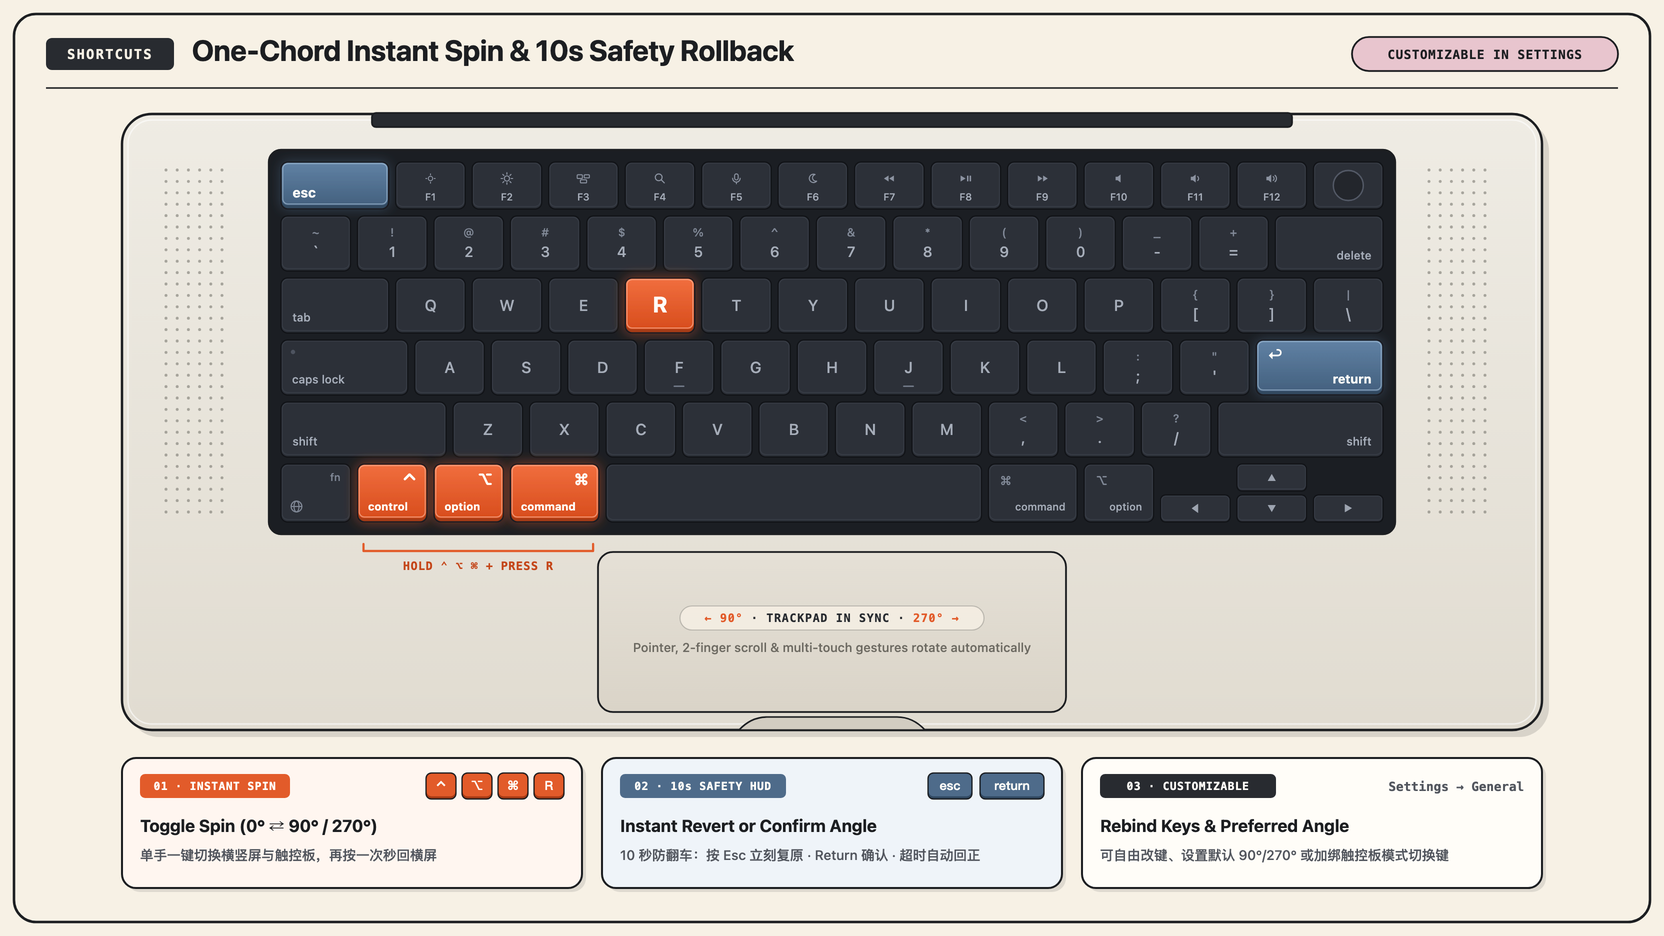
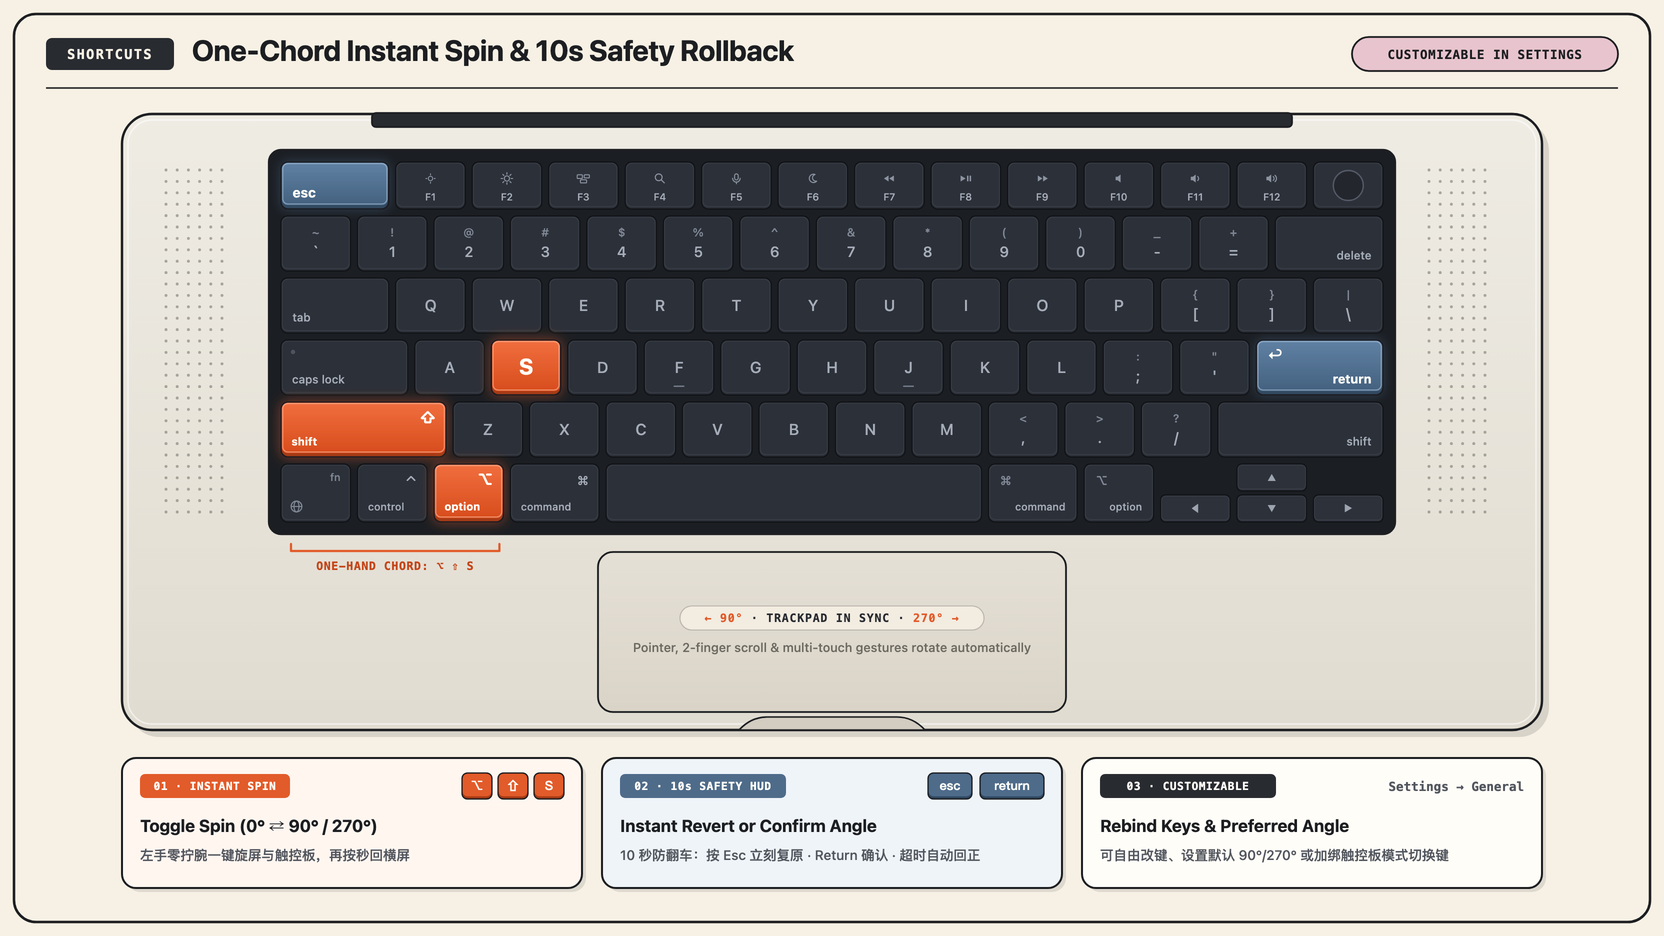
feat(shortcuts): switch default toggle hotkey to one-hand Option+Shift+S (v0.2.4)

diff --git a/Sources/SpinMacApp/Shortcuts.swift b/Sources/SpinMacApp/Shortcuts.swift
@@ -1,10 +1,10 @@
 import KeyboardShortcuts
 
 extension KeyboardShortcuts.Name {
-    /// Global shortcut to toggle between 0° and preferred portrait angle (default: ⌃⌥⌘R).
+    /// Global shortcut to toggle between 0° and preferred portrait angle (default: ⌥⇧S).
     static let toggleDisplayRotation = Self(
         "toggleDisplayRotation",
-        default: .init(.r, modifiers: [.control, .option, .command])
+        default: .init(.s, modifiers: [.option, .shift])
     )
 
     /// Optional global shortcut to cycle trackpad mode (Linked -> Independent -> Off).

diff --git a/Sources/SpinMacApp/SpinCoordinator.swift b/Sources/SpinMacApp/SpinCoordinator.swift
@@ -14,7 +14,7 @@ public final class SpinCoordinator {
     public private(set) var currentAngle: SpinAngle = .deg0
     public private(set) var permissions: PermissionStatus = PermissionsManager.currentStatus()
     public private(set) var statusError: SpinMacError?
-    public private(set) var displayShortcutLabel: String = "⌃⌥⌘R"
+    public private(set) var displayShortcutLabel: String = "⌥⇧S"
 
     // MARK: - Persisted Preferences
     public var preferredVerticalAngle: SpinAngle {

diff --git a/README.md b/README.md
@@ -32,7 +32,7 @@ Everyone is vibe coding nonstop right now, and I got completely hooked too. Most
 
 At first, I kept the MacBook flat on the mattress and propped my head up on one hand — within ten minutes my arm went numb and my neck ached. Next, I tried putting my head flat on the pillow and standing the MacBook up on its side edge so the screen lined up with my eyes. The flaw showed up immediately on a soft mattress: the laptop wobbles and wants to tip over constantly, and typing or using a vertical trackpad in mid-air is miserable.
 
-So I built **SpinMac**. Keep your head relaxed on the pillow and **leave the laptop completely flat and rock-solid on the bed**, then spin only the display and trackpad in software. macOS hides Display Rotation whenever no external monitor is plugged in, and rotating only the screen leaves the trackpad fighting every swipe. With SpinMac, one shortcut (`⌃⌥⌘R`) rotates the built-in display, the trackpad, and every multi-touch gesture together — `90°` (`Top ←`, left edge up) when lying on your left side, or `270°` (`Top →`, right edge up) when lying on your right side. You can also decouple display and trackpad angles completely.
+So I built **SpinMac**. Keep your head relaxed on the pillow and **leave the laptop completely flat and rock-solid on the bed**, then spin only the display and trackpad in software. macOS hides Display Rotation whenever no external monitor is plugged in, and rotating only the screen leaves the trackpad fighting every swipe. With SpinMac, one shortcut (`⌥⇧S`) rotates the built-in display, the trackpad, and every multi-touch gesture together — `90°` (`Top ←`, left edge up) when lying on your left side, or `270°` (`Top →`, right edge up) when lying on your right side. You can also decouple display and trackpad angles completely.
 
 <div align="center">
   <img src="docs/assets/before-and-break.png" alt="Before SpinMac: propping head up with a numb arm and stiff neck, then trying to balance a sideways laptop on a soft mattress, vs. taking an eye-health break at a desk" width="100%"/>
@@ -88,17 +88,17 @@ NOTARY_PROFILE="your-notary-profile" \
 </div>
 
 ### 1. Roll Left, Roll Right, or Decouple Completely
-- **Linked Mode (Default)** — Press `⌃⌥⌘R` (or pick `90° / 180° / 270°` in the popover) to spin your built-in display and trackpad together. Rotating an external vertical monitor leaves your laptop's built-in trackpad safely at `0°`.
+- **Linked Mode (Default)** — Press `⌥⇧S` (or pick `90° / 180° / 270°` in the popover) to spin your built-in display and trackpad together. Rotating an external vertical monitor leaves your laptop's built-in trackpad safely at `0°`.
 - **Independent Mode** — Set any angle pair independently. Keep your screen horizontal at `0°` while turning a sideways external Magic Trackpad to `270°`, or mix any `0° / 90° / 180° / 270°` combination.
 - **Off Mode** — Rotate only the screen while completely suspending trackpad interception.
 
 ### 2. One-Chord Shortcut & 10s Safety Rollback
 
 <div align="center">
-  <img src="docs/assets/shortcuts-keyboard.png" alt="SpinMac MacBook keyboard shortcut diagram highlighting Control+Option+Command+R to toggle spin and Esc/Return for the 10-second safety rollback HUD" width="100%"/>
+  <img src="docs/assets/shortcuts-keyboard.png" alt="SpinMac MacBook keyboard shortcut diagram highlighting Option+Shift+S to toggle spin and Esc/Return for the 10-second safety rollback HUD" width="100%"/>
 </div>
 
-- **`⌃ ⌥ ⌘ R`** — Hold the three bottom-left modifier keys (`control` + `option` + `command`) and tap `R` to toggle between `0°` and your preferred portrait angle (`90°` or `270°`). Rebindable anytime in **Settings → General**, where you can also set an optional shortcut to cycle Trackpad Mode.
+- **`⌥ ⇧ S`** — Rest your left pinky on `shift`, thumb on `option`, and tap `S` to toggle between `0°` and your preferred portrait angle (`90°` or `270°`) effortlessly with one hand (zero browser or IDE conflicts). Rebindable anytime in **Settings → General**, where you can also set an optional shortcut to cycle Trackpad Mode.
 - **`esc` / `return`** — Whenever you spin away from `0°`, a floating 10-second confirmation HUD appears centered on screen. Tap `esc` to snap straight back to `0°`, tap `return` to confirm immediately, or do nothing and it auto-reverts after 10 seconds.
 
 ### 3. Full Multi-Touch Gesture Parity

diff --git a/README.zh-CN.md b/README.zh-CN.md
@@ -32,7 +32,7 @@
 
 最开始在床上看电脑，我把笔记本平放在床垫上、侧躺用手撑着脑袋看，没撑十分钟胳膊就压麻了，脖子也酸得不行。后来干脆把头放平、试着把笔记本沿着侧面立在床上，屏幕里的文字方向确实跟眼睛对上了，但真立在软绵绵的床垫上根本放不稳，稍微一动就歪斜着要栽倒，一只手得扶着机身防倒，另一只手还得别扭地去够竖起来的键盘和触控板，根本没法顺手操作。
 
-索性自己写了 **SpinMac**。脑袋照样舒舒服服平枕在枕头上，**电脑也照样老老实实平放在床上**（稳当、好打字、好摸触控板），只用软件把屏幕画面和触控板方向一起转过来就行。macOS 在没接外屏时会隐藏屏幕旋转，光转屏幕不转触控板又会让光标和手势全在跟你拧着干。现在只要按一下快捷键 `⌃⌥⌘R`，内建屏、触控板连带所有多指手势同步跟着视线走：向左侧躺选 `90°`（顶朝左），向右侧躺选 `270°`（顶朝右），屏和板也可以拆开单独设角度。
+索性自己写了 **SpinMac**。脑袋照样舒舒服服平枕在枕头上，**电脑也照样老老实实平放在床上**（稳当、好打字、好摸触控板），只用软件把屏幕画面和触控板方向一起转过来就行。macOS 在没接外屏时会隐藏屏幕旋转，光转屏幕不转触控板又会让光标和手势全在跟你拧着干。现在只要单手按一下快捷键 `⌥⇧S`，内建屏、触控板连带所有多指手势同步跟着视线走：向左侧躺选 `90°`（顶朝左），向右侧躺选 `270°`（顶朝右），屏和板也可以拆开单独设角度。
 
 <div align="center">
   <img src="docs/assets/before-and-break.png" alt="使用前的两步踩坑演变：平放电脑手撑脑袋撑到手麻脖子酸、改把电脑侧立在软床垫上摇晃难操作，以及记得白天坐直护眼休息的三格漫画" width="100%"/>
@@ -88,17 +88,17 @@ NOTARY_PROFILE="your-notary-profile" \
 </div>
 
 ### 1. 左翻身、右翻身，或者屏与板彻底解耦
-- **联动模式（默认）**：按 `⌃⌥⌘R` 或点选 `90° / 180° / 270°`，笔记本内建屏与触控板同步旋转。如果连接并旋转外接显示器，笔记本自带触控板会自动保持 `0°` 不误伤。
+- **联动模式（默认）**：按 `⌥⇧S` 或点选 `90° / 180° / 270°`，笔记本内建屏与触控板同步旋转。如果连接并旋转外接显示器，笔记本自带触控板会自动保持 `0°` 不误伤。
 - **独立模式**：把屏幕和触控板的方向完全拆开。比如屏幕保持 `0°` 横屏不动，桌面上侧放的外接妙控板单独旋成 `270°`，四个角度任意自由组合。
 - **关闭模式**：只转屏幕，触控板事件拦截彻底休眠。
 
 ### 2. 单手一键快捷键与 10 秒防翻车
 
 <div align="center">
-  <img src="docs/assets/shortcuts-keyboard.png" alt="SpinMac MacBook 键盘快捷键位置图：高亮标注 Control+Option+Command+R 一键旋转与 Esc/Return 10秒防翻车确认键" width="100%"/>
+  <img src="docs/assets/shortcuts-keyboard.png" alt="SpinMac MacBook 键盘快捷键位置图：高亮标注 Option+Shift+S 单手一键旋转与 Esc/Return 10秒防翻车确认键" width="100%"/>
 </div>
 
-- **`⌃ ⌥ ⌘ R`**：左手按住左下角三枚修饰键（`control` + `option` + `command`）再点 `R`，即可在 `0°` 与常用竖屏角（`90°` 或 `270°`）之间一键切换。可在 **偏好设置 → 通用** 随时改键，也能额外绑定“切换触控板模式”的快捷键。
+- **`⌥ ⇧ S`**：左手小指轻压 `shift`、大拇指压 `option`、中指或食指轻点 `S`，单手零拧腕一键切换 `0°` 与常用竖屏角（`90°` 或 `270°`），与浏览器和 IDE 零冲突。可在 **偏好设置 → 通用** 随时改键，也能额外绑定“切换触控板模式”的快捷键。
 - **`esc` / `return`**：每次切离 `0°` 时，目标屏幕正中央会自动弹出 10 秒确认条；按 `esc` 秒回 `0°`，按 `return` 立刻锁定当前方向，什么都不按 10 秒后自动复原，绝不卡死在竖屏。
 
 ### 3. 正着能干的事，转过来照样顺手
